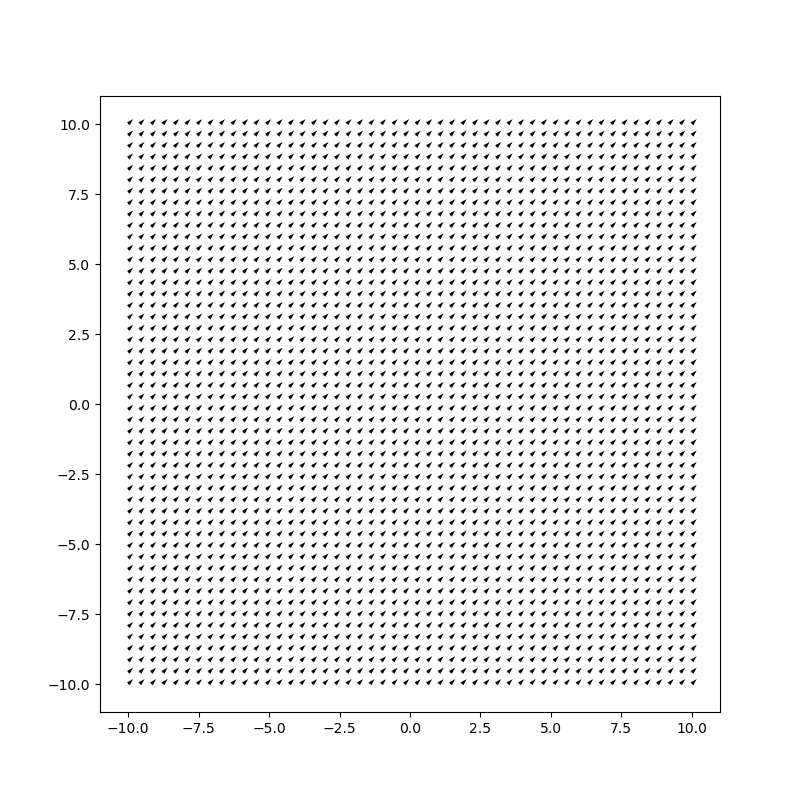
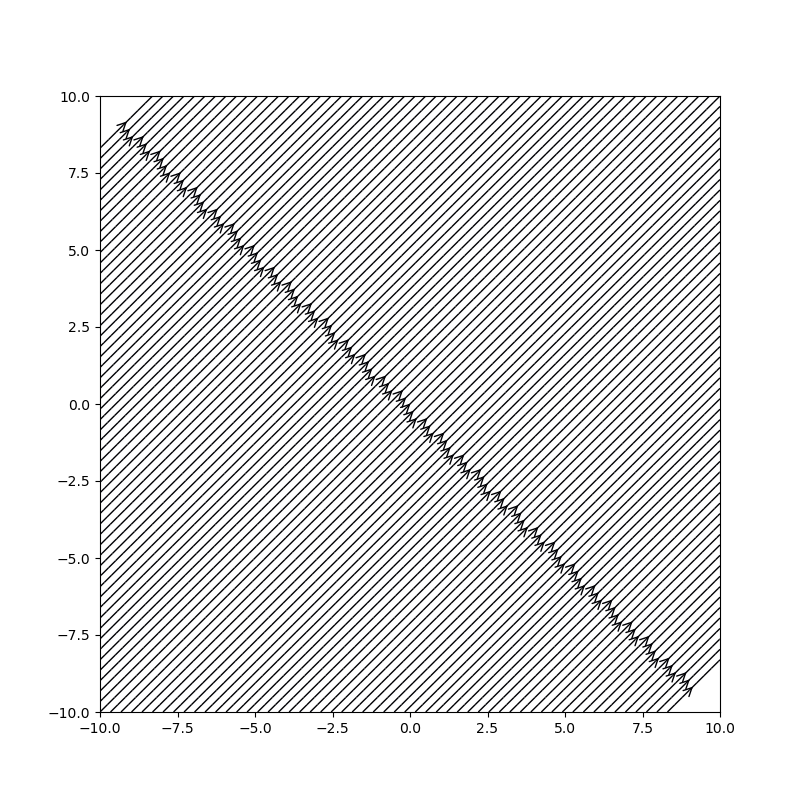
adding B field

Changed region(s): [[0.0625, 0.125, 0.9062, 0.9375], [0.8438, 0.9062, 0.9062, 0.9375], [0.0625, 0.5938, 0.0938, 0.625]]

diff --git a/unit-2/magnetic-dev/magnetic.py b/unit-2/magnetic-dev/magnetic.py
@@ -76,31 +76,49 @@ class MagneticField2D:
        """
        # Call the grid information
        x_2d, y_2d = self.grid_generator()
-
+       
        # Call the field generators
-       bx_2d, by_2d = self.uniform_bfield(x_2d, y_2d)
+       if field_type == "uniform":
+           # Call the uniform field generator
+           bx_2d, by_2d = self.uniform_bfield(x_2d, y_2d)
+       elif field_type == "dipolar":
+           # Call the dipolar field generator
+           bx_2d, by_2d = self.dipolar_bfield(x_2d, y_2d)
+       else:
+           raise ValueError("The argument field_type only accepts: 'uniform' or 'dipolar'.")
+
+       # Compute B
+       b_mod = np.sqrt(bx_2d**2 +by_2d**2)
 
        # Create a figure environment
        plt.figure(figsize = (8,8))
+       # Reference for streamplot: https://scipython.com/blog/visualizing-the-earths-magnetic-field/
+       plt.streamplot(x_2d, y_2d, bx_2d, by_2d, color = np.log10(b_mod), linewidth=1, cmap=plt.cm.inferno, density=2, arrowstyle='->', arrowsize=1.5)
+       #plt.quiver(x_2d, y_2d, bx_2d, by_2d, np.log10(b_mod))
 
-       plt.quiver(x_2d, y_2d, bx_2d, by_2d)
-
-       plt.savefig("uniform.png")
+       plt.savefig(field_type+".png")
     
 
 # Call the class
 if __name__ == "__main__":
 
+    # Parsing the code
+    parser = argparse.ArgumentParser(description = "Generate and make a map of 2D B fields")
+    # Add argument
+    parser.add_argument("--btype", choices = ["uniform", "dipolar"], required = True, help = "Type of B field.")
+    args = parser.parse_args()
+
     # Instance of the class
     mag = MagneticField2D()
     
     # Access methods
-    xx, yy = mag.grid_generator()
+    #xx, yy = mag.grid_generator()
     
     # Testing
-    b_r, b_theta = mag.dipolar_bfield(xx, yy)
+    #b_r, b_theta = mag.dipolar_bfield(xx, yy)
 
-    print("We should see the shapes: ", b_r.shape)
+    #print("We should see the shapes: ", b_r.shape)
 
     # Plot the uniform field
-    mag.plot_2dfield(field_type = "uniform")
+    mag.plot_2dfield(field_type = args.btype)
+    #mag.plot_2dfield(field_type = "dipolar")
